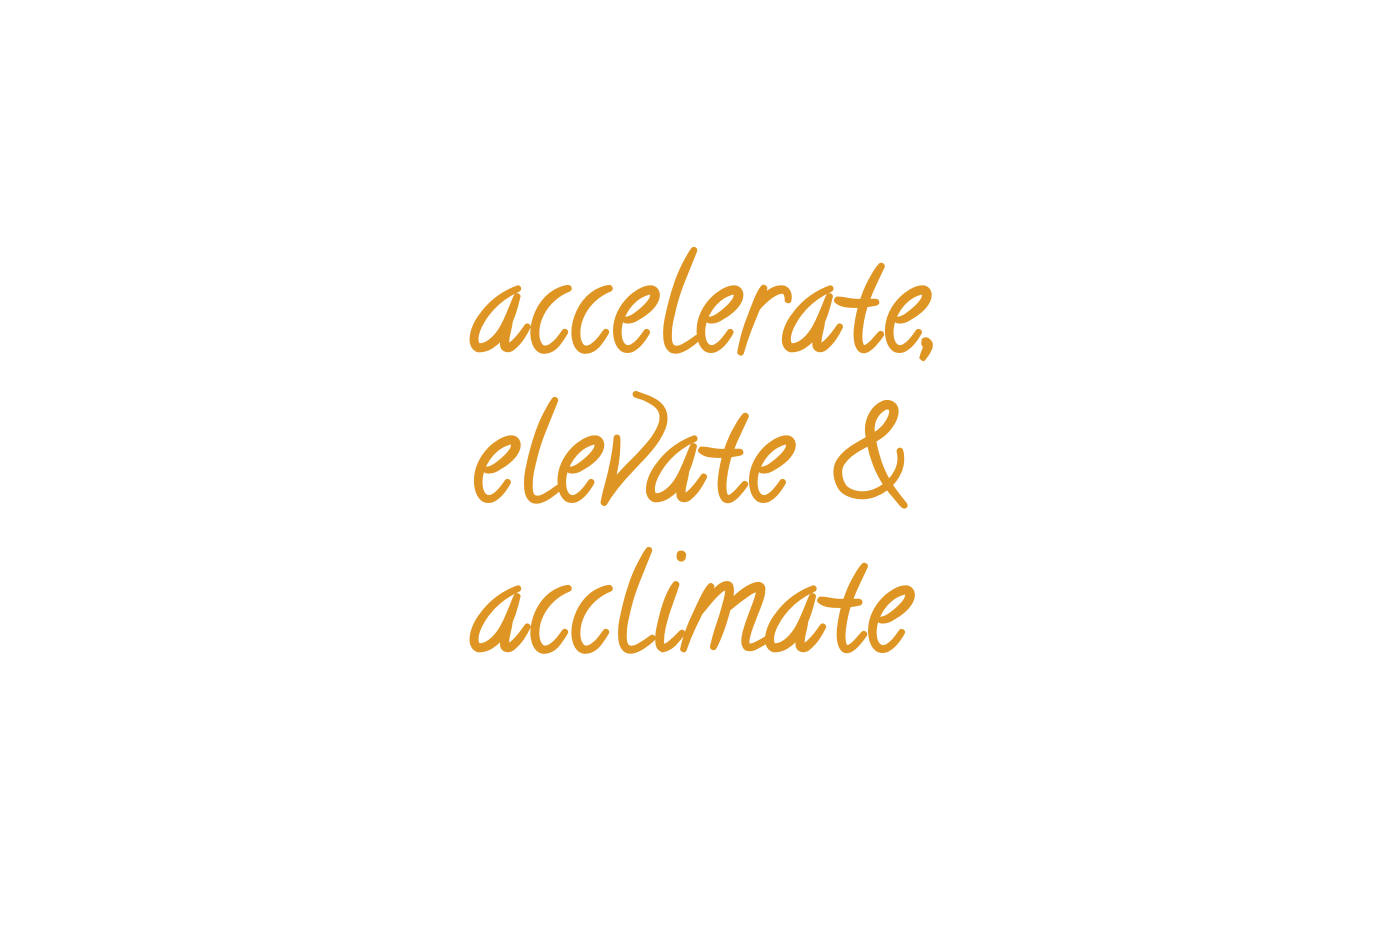
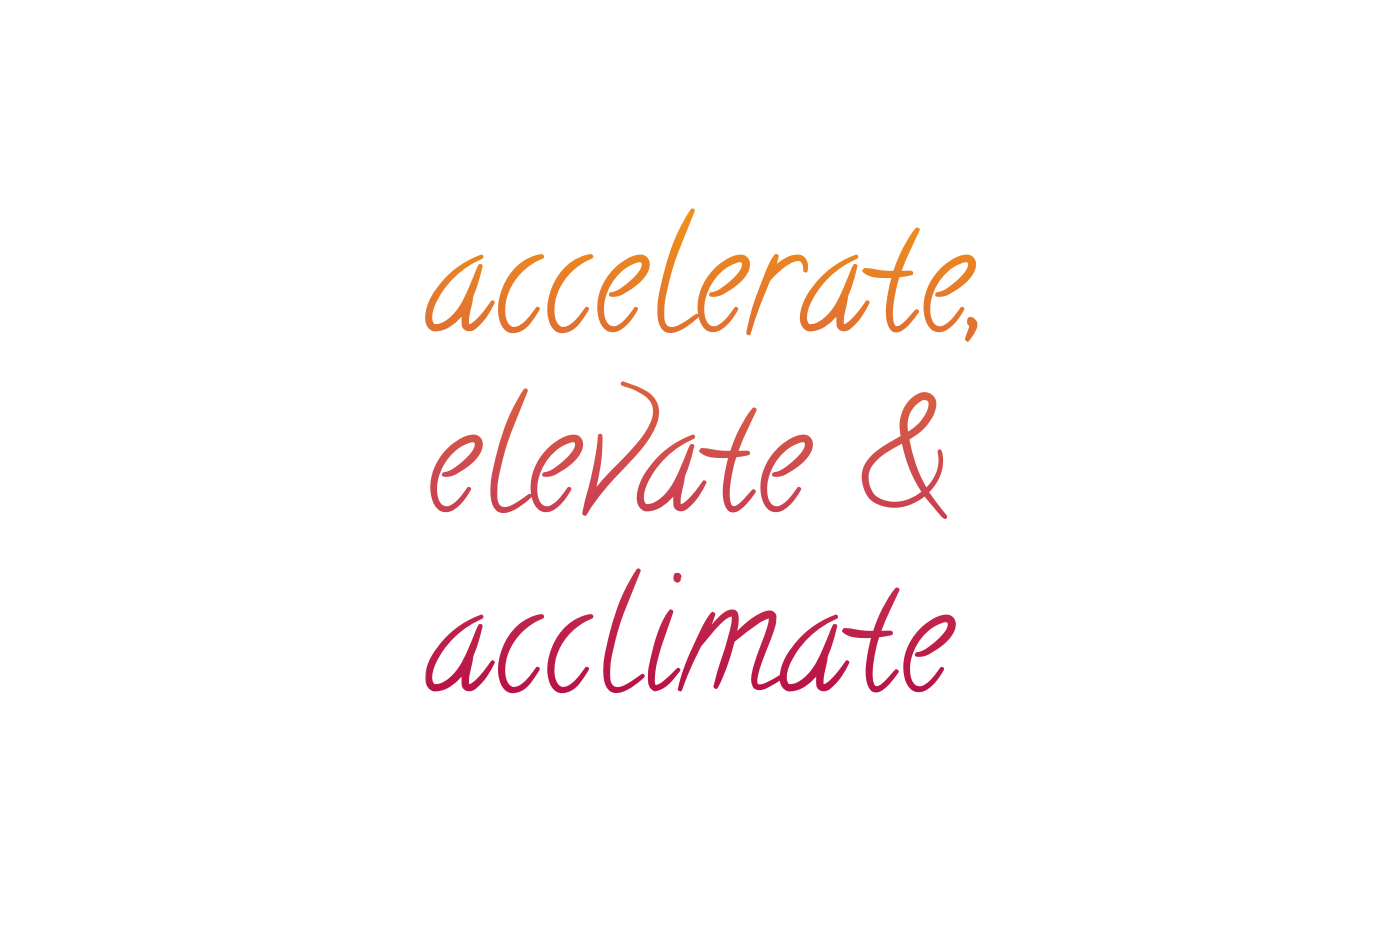
brand new type

Changed region(s): [[0.308, 0.2463, 0.7085, 0.5541], [0.308, 0.5849, 0.7085, 0.7389]]

diff --git a/src/pages/type-design.js b/src/pages/type-design.js
@@ -11,7 +11,7 @@ import SEO from '../components/seo'
 const Easy = (props) => (
 
   <Layout name="project-page">
-    <SEO title="Kindred Academy" />
+    <SEO title="Typography design" />
     <section className="title">
       <div className="wrapper">
         <h1>Typography Design</h1>
@@ -25,7 +25,9 @@ const Easy = (props) => (
         <Img fluid={props.data.imageFour.childImageSharp.fluid} />
         <Img fluid={props.data.imageFive.childImageSharp.fluid} />
         <Img fluid={props.data.imageSix.childImageSharp.fluid} />
-        <Img fluid={props.data.imageSeven.childImageSharp.fluid} />
+        {/* <Img fluid={props.data.imageSeven.childImageSharp.fluid} /> */}
+        <Img fluid={props.data.imageEight.childImageSharp.fluid} />
+        <Img fluid={props.data.imageNine.childImageSharp.fluid} />
     </div>
     <section className="project-links">
       <div className="wrapper">
@@ -60,28 +62,42 @@ export const pageQuery = graphql`
         }
       }
     }
-    imageFour: file(relativePath: { eq: "type/jl-type.png" }) {
+    imageFour: file(relativePath: { eq: "type/lafontaine-type.png" }) {
       childImageSharp {
         fluid(maxWidth: 1000) {
           ...GatsbyImageSharpFluid_noBase64
         }
       }
     }
-    imageFive: file(relativePath: { eq: "type/kind-type.png" }) {
+    imageFive: file(relativePath: { eq: "type/jl-type.png" }) {
       childImageSharp {
         fluid(maxWidth: 1000) {
           ...GatsbyImageSharpFluid_noBase64
         }
       }
     }
-    imageSix: file(relativePath: { eq: "type/d-type.png" }) {
+    imageSix: file(relativePath: { eq: "type/circle-type.png" }) {
       childImageSharp {
         fluid(maxWidth: 1000) {
           ...GatsbyImageSharpFluid_noBase64
         }
       }
     }
-    imageSeven: file(relativePath: { eq: "type/pace-type.png" }) {
+    imageSeven: file(relativePath: { eq: "type/perfume-type.png" }) {
+      childImageSharp {
+        fluid(maxWidth: 1000) {
+          ...GatsbyImageSharpFluid_noBase64
+        }
+      }
+    }
+    imageEight: file(relativePath: { eq: "type/d-type.png" }) {
+      childImageSharp {
+        fluid(maxWidth: 1000) {
+          ...GatsbyImageSharpFluid_noBase64
+        }
+      }
+    }
+    imageNine: file(relativePath: { eq: "type/pace-type.png" }) {
       childImageSharp {
         fluid(maxWidth: 1000) {
           ...GatsbyImageSharpFluid_noBase64

diff --git a/src/styles/main.scss b/src/styles/main.scss
@@ -48,24 +48,24 @@ main {
 }
 
 a.hidden {
-  left:-999px;
+  left:-1200000px;
   position:absolute;
   top:0;
-  left: 0;
-  width:1px;
-  height:1px;
+  // left: 0;
+  width: 0;
+  height: 0;
   overflow:hidden;
   z-index:-999;
 }
 a.hidden:focus, a.hidden:active {
-  color: #fff;
-  background-color:#000;
+  color: black;
+  background-color:$mainColor;
   top: auto;
   left: 0;
   width: 150px;
   height: auto;
   overflow:auto;
-  margin: 10px 15%;
+  // margin: 10px 15%;
   padding:5px;
   text-align:center;
   font-size:1.2em;
